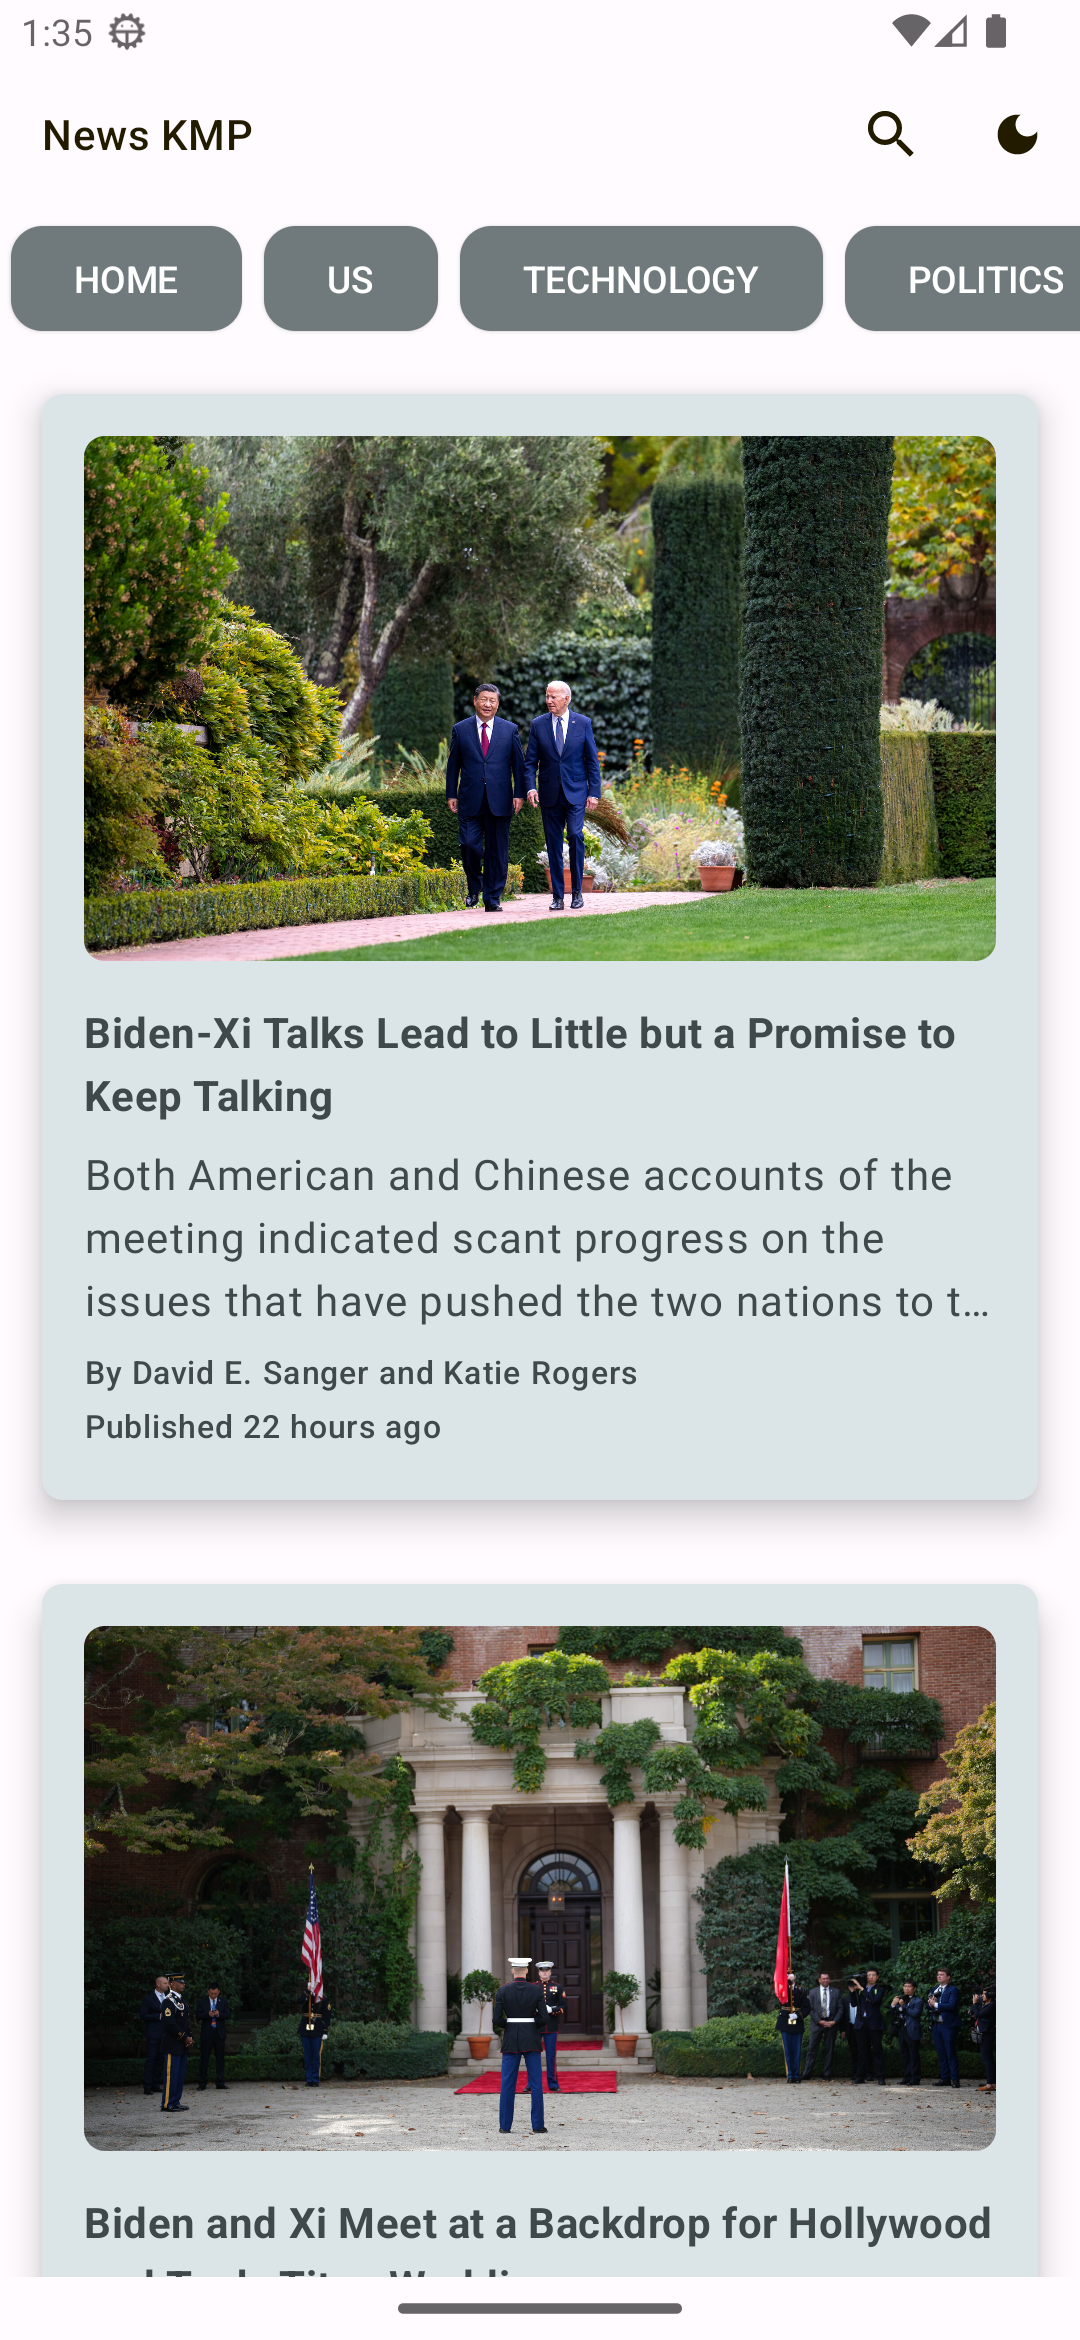
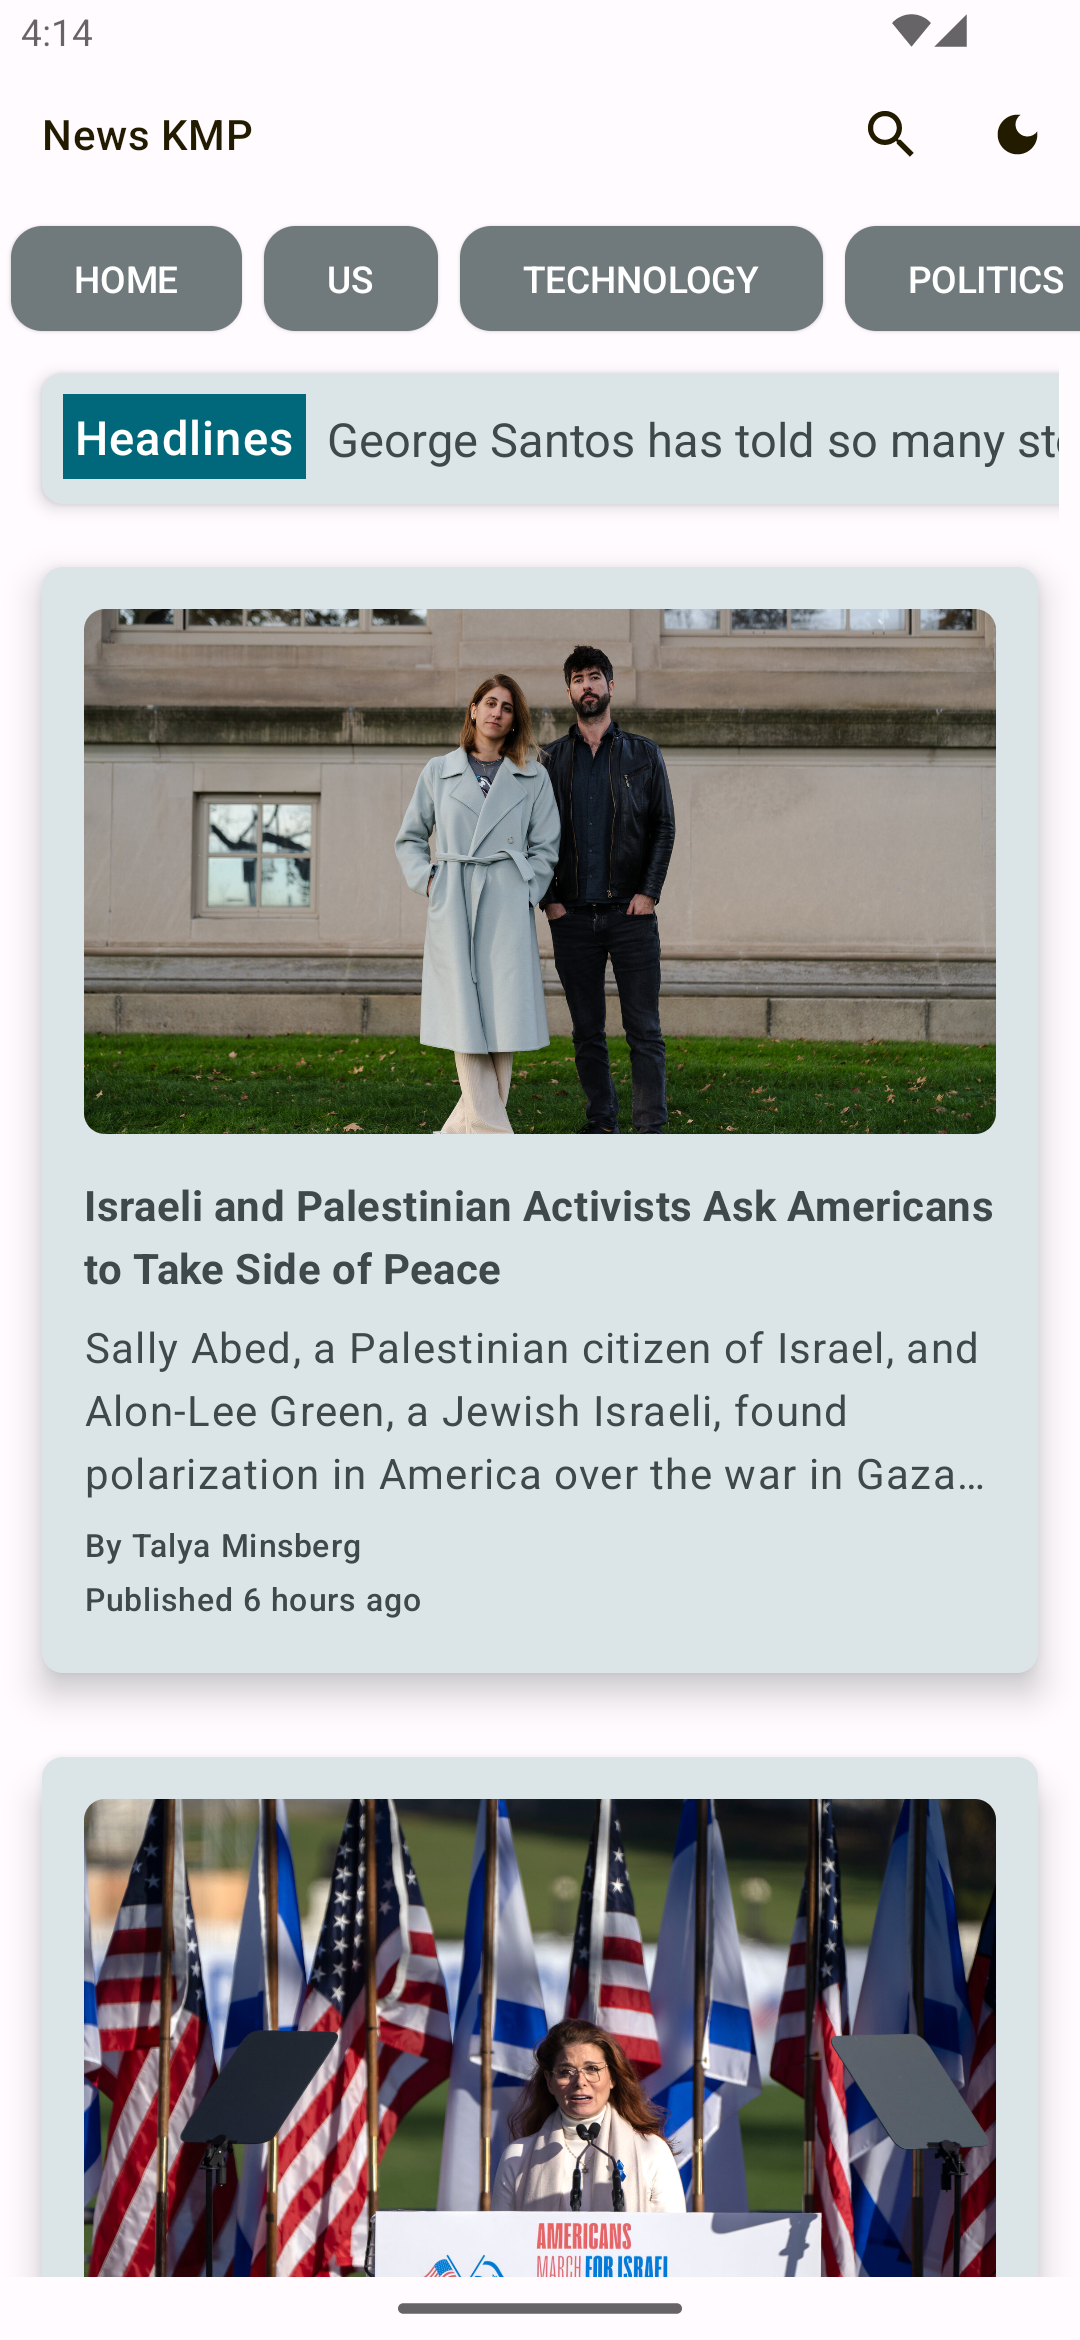
Compose & Kotin Version Upgraded

diff --git a/composeApp/src/commonMain/kotlin/org/newskmp/app/ui/screen/smallscreen/home/headlines/HeadlineScreen.kt b/composeApp/src/commonMain/kotlin/org/newskmp/app/ui/screen/smallscreen/home/headlines/HeadlineScreen.kt
@@ -1,0 +1,132 @@
+package org.newskmp.app.ui.screen.smallscreen.home.headlines
+
+import androidx.compose.foundation.ExperimentalFoundationApi
+import androidx.compose.foundation.MarqueeAnimationMode
+import androidx.compose.foundation.MarqueeSpacing
+import androidx.compose.foundation.background
+import androidx.compose.foundation.basicMarquee
+import androidx.compose.foundation.border
+import androidx.compose.foundation.gestures.Orientation
+import androidx.compose.foundation.gestures.scrollable
+import androidx.compose.foundation.layout.Box
+import androidx.compose.foundation.layout.Column
+import androidx.compose.foundation.layout.Row
+import androidx.compose.foundation.layout.Spacer
+import androidx.compose.foundation.layout.fillMaxSize
+import androidx.compose.foundation.layout.fillMaxWidth
+import androidx.compose.foundation.layout.height
+import androidx.compose.foundation.layout.padding
+import androidx.compose.foundation.layout.width
+import androidx.compose.foundation.lazy.LazyRow
+import androidx.compose.foundation.lazy.items
+import androidx.compose.foundation.rememberScrollState
+import androidx.compose.foundation.shape.RoundedCornerShape
+import androidx.compose.material3.Card
+import androidx.compose.material3.CardDefaults
+import androidx.compose.material3.MaterialTheme
+import androidx.compose.material3.Text
+import androidx.compose.runtime.Composable
+import androidx.compose.runtime.LaunchedEffect
+import androidx.compose.runtime.getValue
+import androidx.compose.runtime.mutableStateOf
+import androidx.compose.runtime.remember
+import androidx.compose.runtime.rememberCoroutineScope
+import androidx.compose.runtime.setValue
+import androidx.compose.ui.Alignment
+import androidx.compose.ui.Modifier
+import androidx.compose.ui.draw.clip
+import androidx.compose.ui.text.style.TextOverflow
+import androidx.compose.ui.unit.dp
+import androidx.compose.ui.unit.sp
+import kotlinx.coroutines.delay
+import org.newskmp.app.data.model.News
+import org.newskmp.app.data.model.Result
+
+@Composable
+fun HeadlineList(news: News) {
+    val coroutineScope = rememberCoroutineScope()
+
+    // State to track the current index of the displayed news headline
+    var currentIndex by remember { mutableStateOf(0) }
+
+    // Launch the marquee effect when the component is first composed or when the news list changes
+    LaunchedEffect(news) {
+        // Run the marquee effect indefinitely
+        while (true) {
+            // Delay for 1 second before moving to the next news headline
+            delay(1000)
+
+            // Move to the next news headline
+            currentIndex = (currentIndex + 1) % news.results.size
+        }
+    }
+
+    LazyRow(
+        modifier = Modifier
+            .fillMaxWidth()
+            .padding(start = 8.dp, end = 8.dp)
+    ) {
+        // Display the current news headline with the marquee effect
+        item {
+            HeadlineItem(result = news.results[currentIndex])
+        }
+    }
+}
+
+@Composable
+fun HeadlineItem(result: Result) {
+    // Adjust the font size as needed
+    val fontSize = 18.sp
+
+    // News headline with scrolling inside a Card
+    Card(
+        modifier = Modifier
+            .fillMaxWidth()
+            .padding(8.dp)
+            .height(50.dp),
+        elevation = CardDefaults.cardElevation(4.dp),
+    ) {
+        Row(
+            modifier = Modifier
+                .fillMaxSize()
+                .padding(8.dp)
+        ) {
+            // "Headlines" tag on the left side with a different design
+            Box(
+                modifier = Modifier
+                    .background(MaterialTheme.colorScheme.primary)
+                    .padding(4.dp)
+                    .clip(RoundedCornerShape(4.dp))
+            ) {
+                Text(
+                    text = "Headlines",
+                    style = MaterialTheme.typography.labelSmall.copy(
+                        fontSize = fontSize,
+                        color = MaterialTheme.colorScheme.onPrimary
+                    )
+                )
+            }
+
+            Spacer(modifier = Modifier.width(8.dp))
+
+            // Actual News headline with scrolling on the right side
+            Text(
+                text = result.abstract,
+                modifier = Modifier
+                    .fillMaxWidth()
+                    .align(alignment = Alignment.CenterVertically)
+                    .scrollable(
+                        // Use a custom scroll state for smooth scrolling
+                        rememberScrollState(),
+                        // Enable horizontal scrolling
+                        orientation = Orientation.Horizontal,
+                        // Scrolling behavior
+                        enabled = true,
+                    ),
+                style = MaterialTheme.typography.headlineSmall.copy(fontSize = fontSize),
+                maxLines = 1,
+                overflow = TextOverflow.Ellipsis
+            )
+        }
+    }
+}

diff --git a/composeApp/src/commonMain/kotlin/org/newskmp/app/ui/screen/smallscreen/home/HomeScreen.kt b/composeApp/src/commonMain/kotlin/org/newskmp/app/ui/screen/smallscreen/home/HomeScreen.kt
@@ -73,6 +73,7 @@ import org.newskmp.app.ui.components.NewsList
 import org.newskmp.app.ui.components.SearchList
 import org.newskmp.app.ui.components.TopNews
 import org.newskmp.app.ui.screen.largescreen.search.home.SearchListLarge
+import org.newskmp.app.ui.screen.smallscreen.home.headlines.HeadlineList
 import org.newskmp.app.util.NewsState
 import org.newskmp.app.util.SearchState
 import org.newskmp.app.viewmodel.MainViewModel
@@ -831,6 +832,7 @@ class HomeScreen() : Screen {
                             val response = (newsState as NewsState.Success).news
                             newsData = response
                             if (isAndroid()) {
+                                HeadlineList(newsData!!)
                                 NewsList(newsData!!)
                                 FlowRow {
                                     Text("$newsData")
